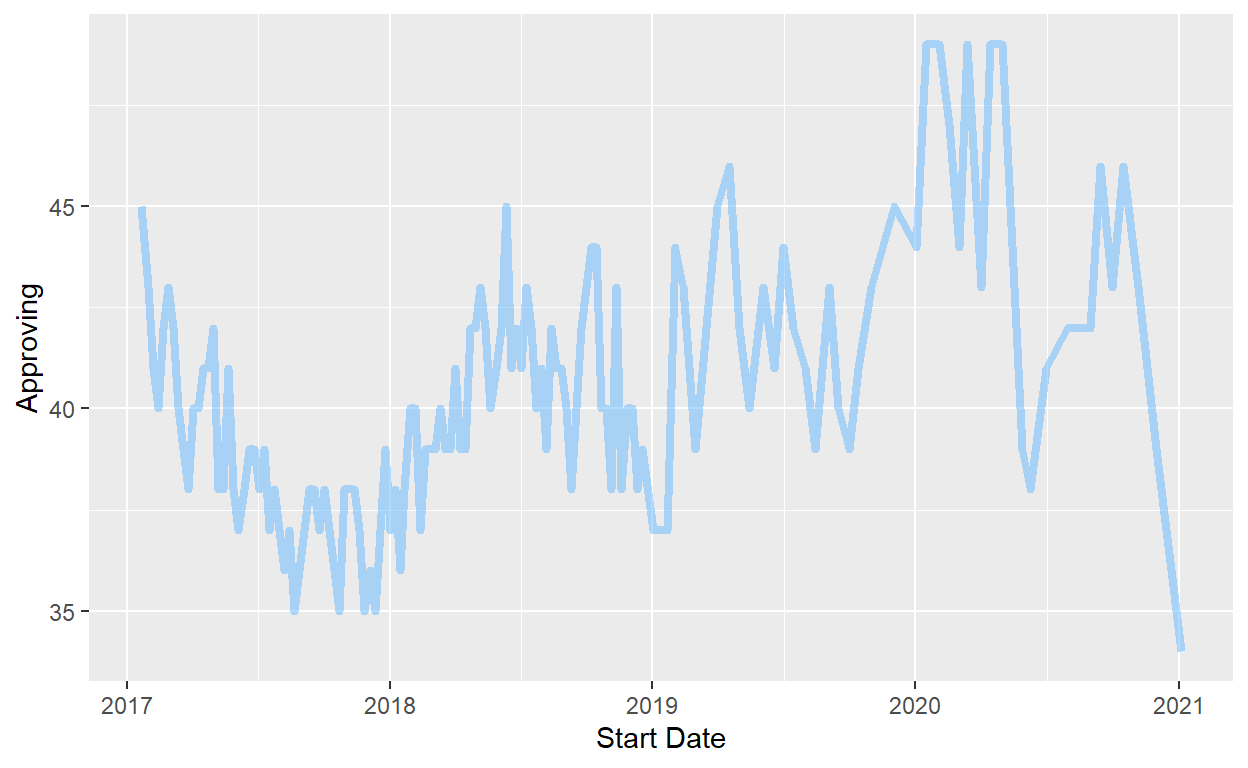
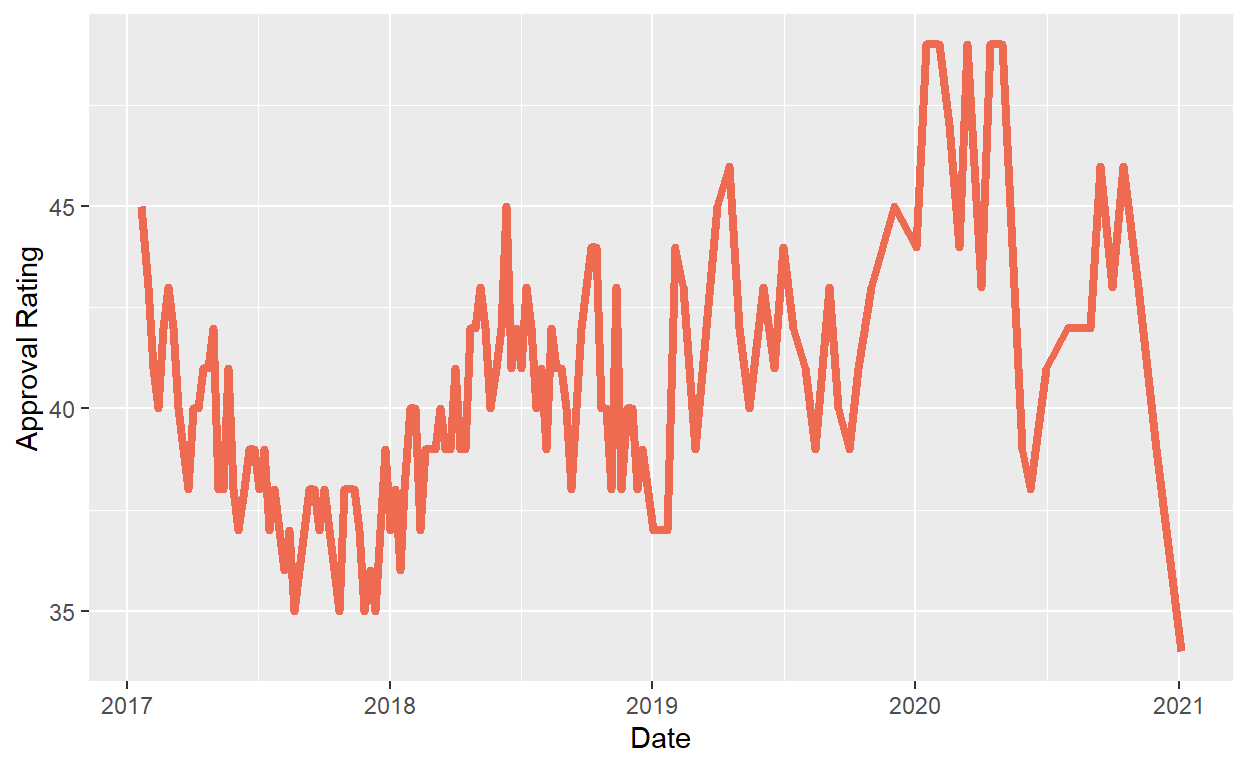
5:39am update

diff --git a/index.html b/index.html
@@ -115,7 +115,7 @@ code span.wa { color: #5e5e5e; font-style: italic; } /* Warning */
   <!--/radix_placeholder_rmarkdown_metadata-->
   
   <script type="text/json" id="radix-resource-manifest">
-  {"type":"character","attributes":{},"value":["data/Gov_50_Inflation.csv","data/Gov_50_Pres_Approval.csv","index_files/anchor-4.2.2/anchor.min.js","index_files/bowser-1.9.3/bowser.min.js","index_files/distill-2.2.21/template.v2.js","index_files/figure-html5/unnamed-chunk-3-1.png","index_files/figure-html5/unnamed-chunk-7-1.png","index_files/figure-html5/unnamed-chunk-8-1.png","index_files/header-attrs-2.17/header-attrs.js","index_files/jquery-3.6.0/jquery-3.6.0.js","index_files/jquery-3.6.0/jquery-3.6.0.min.js","index_files/jquery-3.6.0/jquery-3.6.0.min.map","index_files/popper-2.6.0/popper.min.js","index_files/tippy-6.2.7/tippy-bundle.umd.min.js","index_files/tippy-6.2.7/tippy-light-border.css","index_files/tippy-6.2.7/tippy.css","index_files/tippy-6.2.7/tippy.umd.min.js","index_files/webcomponents-2.0.0/webcomponents.js","mikeyan.html","mikeyan_files/anchor-4.2.2/anchor.min.js","mikeyan_files/bowser-1.9.3/bowser.min.js","mikeyan_files/distill-2.2.21/template.v2.js","mikeyan_files/figure-html5/unnamed-chunk-3-1.png","mikeyan_files/figure-html5/unnamed-chunk-7-1.png","mikeyan_files/figure-html5/unnamed-chunk-8-1.png","mikeyan_files/header-attrs-2.24/header-attrs.js","mikeyan_files/jquery-3.6.0/jquery-3.6.0.js","mikeyan_files/jquery-3.6.0/jquery-3.6.0.min.js","mikeyan_files/jquery-3.6.0/jquery-3.6.0.min.map","mikeyan_files/popper-2.6.0/popper.min.js","mikeyan_files/tippy-6.2.7/tippy-bundle.umd.min.js","mikeyan_files/tippy-6.2.7/tippy-light-border.css","mikeyan_files/tippy-6.2.7/tippy.css","mikeyan_files/tippy-6.2.7/tippy.umd.min.js","mikeyan_files/webcomponents-2.0.0/webcomponents.js"]}
+  {"type":"character","attributes":{},"value":["data/Gov_50_Inflation.csv","data/Gov_50_Pres_Approval.csv","index_files/anchor-4.2.2/anchor.min.js","index_files/bowser-1.9.3/bowser.min.js","index_files/distill-2.2.21/template.v2.js","index_files/figure-html5/unnamed-chunk-3-1.png","index_files/figure-html5/unnamed-chunk-7-1.png","index_files/figure-html5/unnamed-chunk-8-1.png","index_files/figure-html5/unnamed-chunk-9-1.png","index_files/header-attrs-2.17/header-attrs.js","index_files/header-attrs-2.24/header-attrs.js","index_files/jquery-3.6.0/jquery-3.6.0.js","index_files/jquery-3.6.0/jquery-3.6.0.min.js","index_files/jquery-3.6.0/jquery-3.6.0.min.map","index_files/popper-2.6.0/popper.min.js","index_files/tippy-6.2.7/tippy-bundle.umd.min.js","index_files/tippy-6.2.7/tippy-light-border.css","index_files/tippy-6.2.7/tippy.css","index_files/tippy-6.2.7/tippy.umd.min.js","index_files/webcomponents-2.0.0/webcomponents.js","mikeyan.html","mikeyan_files/anchor-4.2.2/anchor.min.js","mikeyan_files/bowser-1.9.3/bowser.min.js","mikeyan_files/distill-2.2.21/template.v2.js","mikeyan_files/figure-html5/unnamed-chunk-3-1.png","mikeyan_files/figure-html5/unnamed-chunk-7-1.png","mikeyan_files/figure-html5/unnamed-chunk-8-1.png","mikeyan_files/header-attrs-2.24/header-attrs.js","mikeyan_files/jquery-3.6.0/jquery-3.6.0.js","mikeyan_files/jquery-3.6.0/jquery-3.6.0.min.js","mikeyan_files/jquery-3.6.0/jquery-3.6.0.min.map","mikeyan_files/popper-2.6.0/popper.min.js","mikeyan_files/tippy-6.2.7/tippy-bundle.umd.min.js","mikeyan_files/tippy-6.2.7/tippy-light-border.css","mikeyan_files/tippy-6.2.7/tippy.css","mikeyan_files/tippy-6.2.7/tippy.umd.min.js","mikeyan_files/webcomponents-2.0.0/webcomponents.js"]}
   </script>
   <!--radix_placeholder_navigation_in_header-->
   <!--/radix_placeholder_navigation_in_header-->
@@ -1562,15 +1562,19 @@ code span.wa { color: #5e5e5e; font-style: italic; } /* Warning */
 <span><span class='va'>approval</span> <span class='op'>&lt;-</span> <span class='fu'><a href='https://readr.tidyverse.org/reference/read_delim.html'>read_csv</a></span><span class='op'>(</span><span class='st'>"data/Gov_50_Pres_Approval.csv"</span><span class='op'>)</span></span></code></pre>
 </div>
 </div>
+<h2 id="approval-rating-example-approval-rating-during-trumps-presidency">Approval Rating Example: Approval Rating during Trump’s Presidency</h2>
 <div class="layout-chunk" data-layout="l-body">
 <div class="sourceCode">
 <pre class="sourceCode r"><code class="sourceCode r"><span><span class='va'>approval</span> <span class='op'>|&gt;</span></span>
 <span>  <span class='fu'><a href='https://dplyr.tidyverse.org/reference/filter.html'>filter</a></span><span class='op'>(</span><span class='va'>President</span> <span class='op'>==</span> <span class='st'>"Trump"</span><span class='op'>)</span> <span class='op'>|&gt;</span></span>
 <span>  <span class='fu'><a href='https://ggplot2.tidyverse.org/reference/ggplot.html'>ggplot</a></span><span class='op'>(</span><span class='fu'><a href='https://ggplot2.tidyverse.org/reference/aes.html'>aes</a></span><span class='op'>(</span>x <span class='op'>=</span> <span class='va'>`Start Date`</span>, y <span class='op'>=</span> <span class='va'>Approving</span><span class='op'>)</span><span class='op'>)</span> <span class='op'>+</span></span>
-<span>  <span class='fu'><a href='https://ggplot2.tidyverse.org/reference/geom_path.html'>geom_line</a></span><span class='op'>(</span>linewidth <span class='op'>=</span> <span class='fl'>1.5</span>, alpha <span class='op'>=</span> <span class='fl'>0.5</span>, color <span class='op'>=</span> <span class='st'>"steelblue1"</span><span class='op'>)</span></span></code></pre>
+<span>  <span class='fu'><a href='https://ggplot2.tidyverse.org/reference/geom_path.html'>geom_line</a></span><span class='op'>(</span>linewidth <span class='op'>=</span> <span class='fl'>1.5</span>, color <span class='op'>=</span> <span class='st'>"coral2"</span><span class='op'>)</span><span class='op'>+</span></span>
+<span>  <span class='fu'><a href='https://ggplot2.tidyverse.org/reference/labs.html'>labs</a></span><span class='op'>(</span>x <span class='op'>=</span> <span class='st'>"Date"</span>,</span>
+<span>       y <span class='op'>=</span> <span class='st'>"Approval Rating"</span><span class='op'>)</span></span></code></pre>
 </div>
 <p><img src="index_files/figure-html5/unnamed-chunk-3-1.png" width="624" /></p>
 </div>
+<h2 id="code-for-joining-the-approval-dataset-and-the-inflation-dataset">Code for joining the Approval dataset and the Inflation dataset</h2>
 <div class="layout-chunk" data-layout="l-body">
 <div class="sourceCode">
 <pre class="sourceCode r"><code class="sourceCode r"><span><span class='va'>inflation</span> <span class='op'>&lt;-</span> <span class='va'>inflation</span> <span class='op'>|&gt;</span></span>
@@ -1617,6 +1621,18 @@ code span.wa { color: #5e5e5e; font-style: italic; } /* Warning */
 <span>  <span class='fu'><a href='https://dplyr.tidyverse.org/reference/distinct.html'>distinct</a></span><span class='op'>(</span><span class='va'>year_month</span>, .keep_all <span class='op'>=</span> <span class='cn'>TRUE</span><span class='op'>)</span></span></code></pre>
 </div>
 </div>
+<h2 id="inflation-example-inflation-rate-during-obamas-presidency">Inflation Example: Inflation Rate during Obama’s Presidency</h2>
+<div class="layout-chunk" data-layout="l-body">
+<div class="sourceCode">
+<pre class="sourceCode r"><code class="sourceCode r"><span><span class='va'>approval</span> <span class='op'>|&gt;</span></span>
+<span>  <span class='fu'><a href='https://dplyr.tidyverse.org/reference/filter.html'>filter</a></span><span class='op'>(</span><span class='va'>President</span> <span class='op'>==</span> <span class='st'>"Obama"</span><span class='op'>)</span> <span class='op'>|&gt;</span></span>
+<span>  <span class='fu'><a href='https://ggplot2.tidyverse.org/reference/ggplot.html'>ggplot</a></span><span class='op'>(</span><span class='fu'><a href='https://ggplot2.tidyverse.org/reference/aes.html'>aes</a></span><span class='op'>(</span>x <span class='op'>=</span> <span class='va'>`Start Date`</span>, y <span class='op'>=</span> <span class='va'>inflation</span><span class='op'>)</span><span class='op'>)</span> <span class='op'>+</span></span>
+<span>  <span class='fu'><a href='https://ggplot2.tidyverse.org/reference/geom_path.html'>geom_line</a></span><span class='op'>(</span>linewidth <span class='op'>=</span> <span class='fl'>1.5</span>, color <span class='op'>=</span> <span class='st'>"steelblue1"</span><span class='op'>)</span><span class='op'>+</span></span>
+<span>  <span class='fu'><a href='https://ggplot2.tidyverse.org/reference/labs.html'>labs</a></span><span class='op'>(</span>x <span class='op'>=</span> <span class='st'>"Date"</span>,</span>
+<span>       y <span class='op'>=</span> <span class='st'>"Inflation"</span><span class='op'>)</span></span></code></pre>
+</div>
+<p><img src="index_files/figure-html5/unnamed-chunk-7-1.png" width="624" /></p>
+</div>
 <div class="layout-chunk" data-layout="l-body">
 <div class="sourceCode">
 <pre class="sourceCode r"><code class="sourceCode r"><span><span class='va'>approval2000</span> <span class='op'>&lt;-</span> <span class='va'>approval</span> <span class='op'>|&gt;</span></span>
@@ -1625,7 +1641,7 @@ code span.wa { color: #5e5e5e; font-style: italic; } /* Warning */
 <span>  <span class='fu'><a href='https://ggplot2.tidyverse.org/reference/ggplot.html'>ggplot</a></span><span class='op'>(</span><span class='fu'><a href='https://ggplot2.tidyverse.org/reference/aes.html'>aes</a></span><span class='op'>(</span>x <span class='op'>=</span> <span class='va'>inflation</span>, y <span class='op'>=</span> <span class='va'>monthly_approval</span><span class='op'>)</span><span class='op'>)</span> <span class='op'>+</span></span>
 <span>  <span class='fu'><a href='https://ggplot2.tidyverse.org/reference/geom_point.html'>geom_point</a></span><span class='op'>(</span><span class='op'>)</span></span></code></pre>
 </div>
-<p><img src="index_files/figure-html5/unnamed-chunk-7-1.png" width="624" /></p>
+<p><img src="index_files/figure-html5/unnamed-chunk-8-1.png" width="624" /></p>
 </div>
 <div class="layout-chunk" data-layout="l-body">
 <div class="sourceCode">
@@ -1634,7 +1650,7 @@ code span.wa { color: #5e5e5e; font-style: italic; } /* Warning */
 <span>  <span class='fu'><a href='https://ggplot2.tidyverse.org/reference/geom_path.html'>geom_line</a></span><span class='op'>(</span><span class='fu'><a href='https://ggplot2.tidyverse.org/reference/aes.html'>aes</a></span><span class='op'>(</span>x<span class='op'>=</span> <span class='va'>year_month</span>, y <span class='op'>=</span> <span class='va'>monthly_approval</span>, color <span class='op'>=</span> <span class='st'>"red"</span><span class='op'>)</span><span class='op'>)</span> <span class='op'>+</span></span>
 <span>  <span class='fu'><a href='https://ggplot2.tidyverse.org/reference/geom_path.html'>geom_line</a></span><span class='op'>(</span><span class='fu'><a href='https://ggplot2.tidyverse.org/reference/aes.html'>aes</a></span><span class='op'>(</span>x<span class='op'>=</span> <span class='va'>year_month</span>, y <span class='op'>=</span> <span class='va'>inflation</span> <span class='op'>*</span> <span class='fl'>10</span>, color <span class='op'>=</span> <span class='st'>"steelblue"</span><span class='op'>)</span><span class='op'>)</span></span></code></pre>
 </div>
-<p><img src="index_files/figure-html5/unnamed-chunk-8-1.png" width="624" /></p>
+<p><img src="index_files/figure-html5/unnamed-chunk-9-1.png" width="624" /></p>
 </div>
 <div class="layout-chunk" data-layout="l-body">
 <div class="sourceCode">
